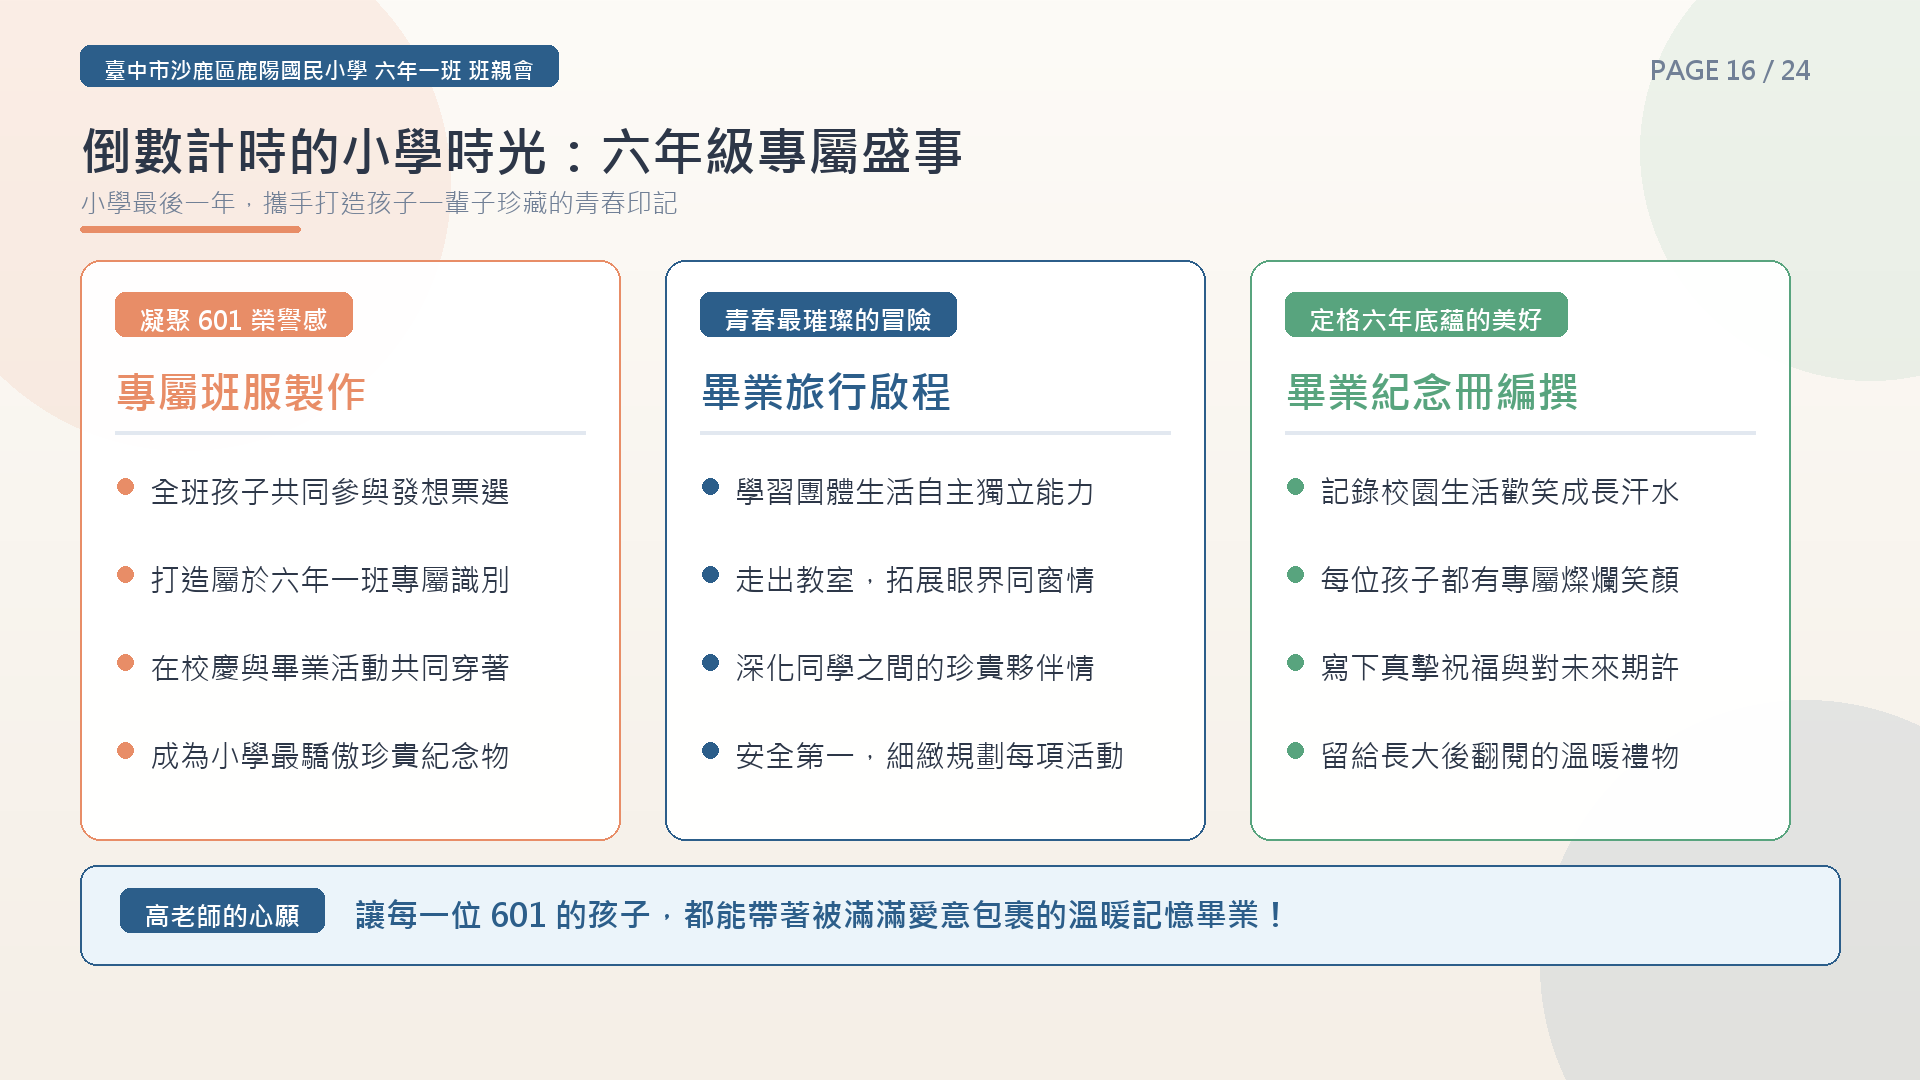
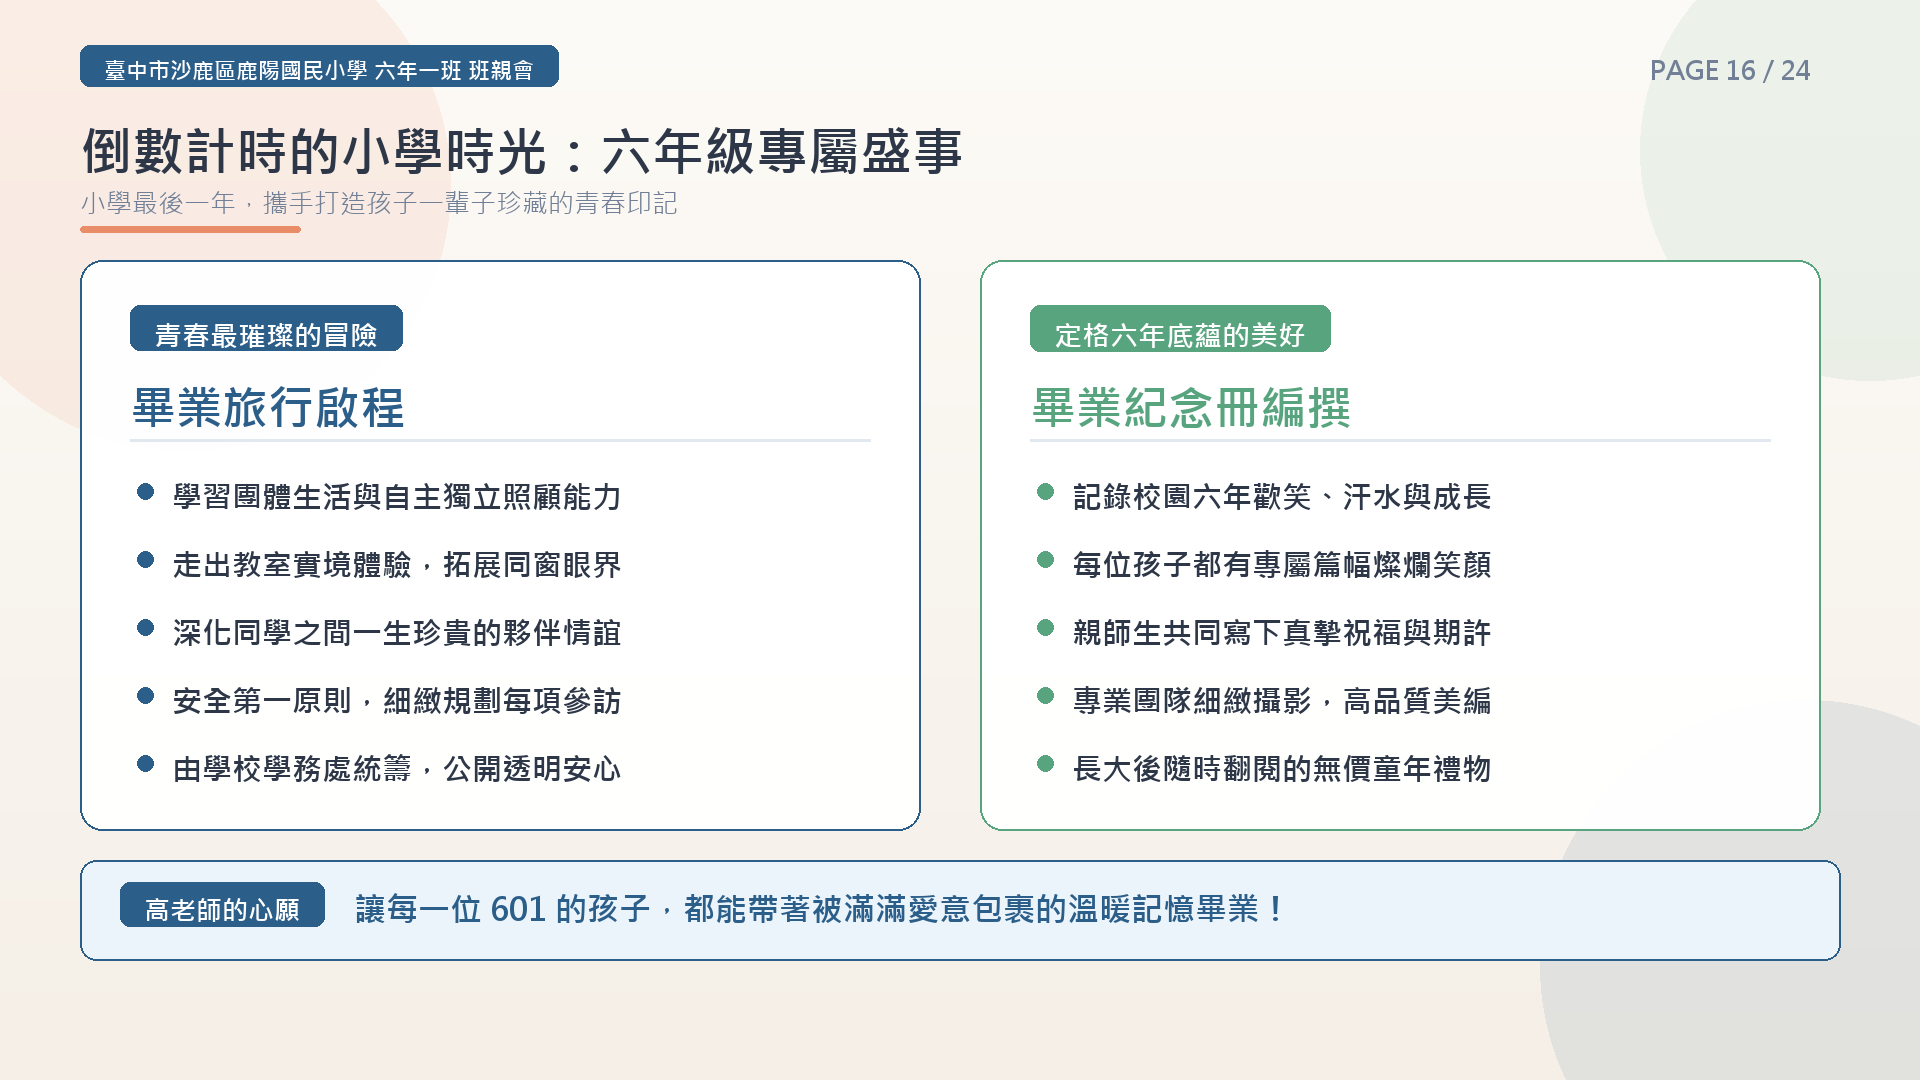
全面移除班服製作相關資訊，重新排版畢業旅行與畢業紀念冊專題

Changed region(s): [[0.0312, 0.2444, 0.9375, 0.7333], [0.0625, 0.6417, 0.9688, 0.9167], [0.3438, 0.6722, 0.4375, 0.7028]]

diff --git a/website/index.html b/website/index.html
@@ -285,21 +285,16 @@
       </div>
 
       <div class="card">
-        <h3 class="card-title">六年級三大成長盛事</h3>
-        <p style="margin-bottom: 1.2rem;">國小最後一年，我們將陪伴孩子共同完成三項凝聚一生回憶的重大專案：</p>
+        <h3 class="card-title">六年級重大成長盛事</h3>
+        <p style="margin-bottom: 1.2rem;">國小最後一年，我們將陪伴孩子共同完成凝聚一生美好回憶的重大專案：</p>
         <div class="grid-3">
           <div class="philosophy-card">
-            <span class="card-badge badge-orange">專案 01</span>
-            <h4 style="margin-bottom: 0.4rem;">專屬班服製作</h4>
-            <p style="font-size: 0.9rem; color: var(--text-muted);">孩子全員參與票選設計，凝聚 601 專屬榮譽感，於重大校園活動齊心展現。</p>
-          </div>
-          <div class="philosophy-card">
-            <span class="card-badge badge-blue">專案 02</span>
+            <span class="card-badge badge-blue">專案 01</span>
             <h4 style="margin-bottom: 0.4rem;">畢業旅行啟程</h4>
             <p style="font-size: 0.9rem; color: var(--text-muted);">最璀璨的小學探險之旅，培養團體互助與自主照顧，深化一輩子的同窗情誼。</p>
           </div>
           <div class="philosophy-card">
-            <span class="card-badge badge-green">專案 03</span>
+            <span class="card-badge badge-green">專案 02</span>
             <h4 style="margin-bottom: 0.4rem;">畢業紀念冊編撰</h4>
             <p style="font-size: 0.9rem; color: var(--text-muted);">定格孩子六年底蘊的燦爛笑容，為童年時光畫下最溫暖圓滿的句點。</p>
           </div>
@@ -308,7 +303,7 @@
 
       <div class="card">
         <h3 class="card-title">班親幹部推選與三大財務透明保證</h3>
-        <p>因應畢業旅行、班服與各項班級專款支出，我們推選熱心家長擔任<strong>班親會「會長」</strong>（代表發聲、親師溝通橋樑）與<strong>「總務」</strong>（專款保管、單據建檔、定期報表）。</p>
+        <p>因應畢業旅行與各項班級專案支出，我們推選熱心家長擔任<strong>班親會「會長」</strong>（代表發聲、親師溝通橋樑）與<strong>「總務」</strong>（專款保管、單據建檔、定期報表）。</p>
         
         <div class="highlight-box">
           <h5>⚖ 高老師與班親會的三大財務透明保證：</h5>

diff --git a/website/presentation.html b/website/presentation.html
@@ -424,8 +424,8 @@
       },
       {
         src: "assets/slides/16-graduation.png",
-        title: "Page 16｜六年級專屬盛事：班服、畢旅與畢業紀念冊",
-        notes: "<strong>【小學里程碑】</strong> 六年級專屬三大盛事：專屬班服設計凝聚 601 榮譽感、畢業旅行兩天一夜深度冒險拓展視野、畢業紀念冊編撰定格童年純真笑顏。"
+        title: "Page 16｜六年級專屬盛事：畢旅與畢業紀念冊",
+        notes: "<strong>【小學里程碑】</strong> 六年級專屬盛事：畢業旅行兩天一夜深度冒險拓展同窗視野、畢業紀念冊編撰定格童年純真笑顏。"
       },
       {
         src: "assets/slides/17-election.png",
@@ -435,7 +435,7 @@
       {
         src: "assets/slides/18-finance-pledge.png",
         title: "Page 18｜班級財務透明：高老師的三大透明承諾",
-        notes: "<strong>【導師承諾】</strong> 財務透明三大保證：① 專款專用（畢旅/班服專款獨立設帳）、② 帳目透明（定期公開收支明細表）、③ 雙人覆核（總務記帳、導師與會長共同覆核審驗）。"
+        notes: "<strong>【導師承諾】</strong> 財務透明三大保證：① 專款專用（畢旅與專案款項獨立設帳）、② 帳目透明（定期公開收支明細表）、③ 雙人覆核（總務記帳、導師與會長共同覆核審驗）。"
       },
       {
         src: "assets/slides/19-committee.png",

diff --git a/website/script.js b/website/script.js
@@ -79,8 +79,8 @@ document.addEventListener("DOMContentLoaded", () => {
     },
     {
       file: "assets/slides/16-graduation.png",
-      title: "Page 16｜六年級專屬盛事：班服、畢旅與畢業紀念冊",
-      note: "小學里程碑盛事：專屬班服凝聚班級向心力、兩天一夜畢業旅行鍛鍊獨立、畢業紀念冊典藏童年最美笑顏。"
+      title: "Page 16｜六年級專屬盛事：畢旅與畢業紀念冊",
+      note: "小學里程碑盛事：兩天一夜畢業旅行鍛鍊獨立自主、畢業紀念冊典藏童年最美笑顏。"
     },
     {
       file: "assets/slides/17-election.png",

diff --git a/generate_slides.py b/generate_slides.py
@@ -697,58 +697,62 @@ def gen_slide_16():
     draw = ImageDraw.Draw(base)
     draw_header_nav(draw, "16", "倒數計時的小學時光：六年級專屬盛事", "小學最後一年，攜手打造孩子一輩子珍藏的青春印記")
     
-    cards = [
-        ("專屬班服製作", ORANGE, "凝聚 601 榮譽感", [
-            "全班孩子共同參與發想票選",
-            "打造屬於六年一班專屬識別",
-            "在校慶與畢業活動共同穿著",
-            "成為小學最驕傲珍貴紀念物"
-        ]),
-        ("畢業旅行啟程", NAVY, "青春最璀璨的冒險", [
-            "學習團體生活自主獨立能力",
-            "走出教室，拓展眼界同窗情",
-            "深化同學之間的珍貴夥伴情",
-            "安全第一，細緻規劃每項活動"
-        ]),
-        ("畢業紀念冊編撰", GREEN, "定格六年底蘊的美好", [
-            "記錄校園生活歡笑成長汗水",
-            "每位孩子都有專屬燦爛笑顏",
-            "寫下真摯祝福與對未來期許",
-            "留給長大後翻閱的溫暖禮物"
-        ])
-    ]
-    
-    cw = 540
-    ch = 580
-    cx_start = 80
-    cy = 260
-    for i, (title, color, sub, bullets) in enumerate(cards):
-        x = cx_start + i * (cw + 45)
-        base = draw_card(base, [x, cy, x + cw, cy + ch], bg_color=(255, 255, 255, 248), border_color=color, radius=20)
-        d = ImageDraw.Draw(base)
-        draw_badge(d, sub, x + 35, cy + 32, bg_color=color, font_size=26)
-        d.text((x + 35, cy + 102), title, font=get_font(True, 42), fill=color)
-        d.line([(x + 35, cy + 172), (x + cw - 35, cy + 172)], fill=(226, 232, 240, 255), width=4)
-        
-        by = cy + 210
-        for b in bullets:
-            draw_dot(d, x + 45, by + 16, color=color, r=8)
-            d.text((x + 70, by), b, font=get_font(False, 30), fill=TEXT_DARK)
-            by += 88
-
-    base = draw_card(base, [80, 865, SLIDE_W - 80, 965], bg_color=(235, 244, 250, 255), border_color=(44, 94, 138, 255), radius=16)
+    # 2 Big Cards: 畢業旅行 & 畢業紀念冊
+    # Left Card: 畢業旅行啟程
+    base = draw_card(base, [80, 260, 920, 830], bg_color=(255, 255, 255, 248), border_color=(44, 94, 138, 255), radius=22)
     d = ImageDraw.Draw(base)
-    bw, bh = draw_badge(d, "高老師的心願", 120, 888, bg_color=NAVY, font_size=26)
-    d.text((120 + bw + 30, 892), "讓每一位 601 的孩子，都能帶著被滿滿愛意包裹的溫暖記憶畢業！", font=get_font(True, 32), fill=NAVY)
+    draw_badge(d, "青春最璀璨的冒險", 130, 305, bg_color=NAVY, font_size=28)
+    d.text((130, 375), "畢業旅行啟程", font=get_font(True, 46), fill=NAVY)
+    d.line([(130, 440), (870, 440)], fill=(226, 232, 240, 255), width=3)
+    
+    b_trip = [
+        "學習團體生活與自主獨立照顧能力",
+        "走出教室實境體驗，拓展同窗眼界",
+        "深化同學之間一生珍貴的夥伴情誼",
+        "安全第一原則，細緻規劃每項參訪",
+        "由學校學務處統籌，公開透明安心"
+    ]
+    by1 = 475
+    for b in b_trip:
+        draw_dot(d, 145, by1 + 16, color=NAVY, r=8)
+        d.text((172, by1), b, font=get_font(True, 30), fill=TEXT_DARK)
+        by1 += 68
+
+    # Right Card: 畢業紀念冊編撰
+    base = draw_card(base, [980, 260, 1820, 830], bg_color=(255, 255, 255, 248), border_color=(88, 164, 126, 255), radius=22)
+    d = ImageDraw.Draw(base)
+    draw_badge(d, "定格六年底蘊的美好", 1030, 305, bg_color=GREEN, font_size=28)
+    d.text((1030, 375), "畢業紀念冊編撰", font=get_font(True, 46), fill=GREEN)
+    d.line([(1030, 440), (1770, 440)], fill=(226, 232, 240, 255), width=3)
+    
+    b_album = [
+        "記錄校園六年歡笑、汗水與成長",
+        "每位孩子都有專屬篇幅燦爛笑顏",
+        "親師生共同寫下真摯祝福與期許",
+        "專業團隊細緻攝影，高品質美編",
+        "長大後隨時翻閱的無價童年禮物"
+    ]
+    by2 = 475
+    for b in b_album:
+        draw_dot(d, 1045, by2 + 16, color=GREEN, r=8)
+        d.text((1072, by2), b, font=get_font(True, 30), fill=TEXT_DARK)
+        by2 += 68
+
+    # Bottom Heartfelt Motto
+    base = draw_card(base, [80, 860, SLIDE_W - 80, 960], bg_color=(235, 244, 250, 255), border_color=(44, 94, 138, 255), radius=16)
+    d = ImageDraw.Draw(base)
+    bw, bh = draw_badge(d, "高老師的心願", 120, 882, bg_color=NAVY, font_size=26)
+    d.text((120 + bw + 30, 886), "讓每一位 601 的孩子，都能帶著被滿滿愛意包裹的溫暖記憶畢業！", font=get_font(True, 32), fill=NAVY)
 
     base.convert("RGB").save(os.path.join(OUT_DIR, "16-graduation.png"), quality=95)
     print("Slide 16 generated.")
+
 
 # ----------------- SLIDE 17: ELECTION (NEW SPLIT) -----------------
 def gen_slide_17():
     base = create_base_canvas()
     draw = ImageDraw.Draw(base)
-    draw_header_nav(draw, "17", "班級自治：推選 601 班親會「會長」與「總務」", "正因有畢業旅行、班服與紀念冊等重要活動，更需要家長幹部共同把關！")
+    draw_header_nav(draw, "17", "班級自治：推選 601 班親會「會長」與「總務」", "正因有畢業旅行與畢業紀念冊等重大專案，更需要家長幹部共同把關！")
     
     # 2 Big Cards: 會長 & 總務
     # Left: 會長
@@ -759,7 +763,7 @@ def gen_slide_17():
     
     c1 = [
         "代表六年一班全體家長發聲與協調",
-        "協助策劃支援班級重大活動（畢旅、活動）",
+        "協助策劃支援班級重大活動（畢旅、專案）",
         "擔任家長與學校行政、導師間最佳橋樑",
         "凝聚全班家長向心力，營造溫暖親師社群",
         "歡迎熱心、富使命感的家長自薦或推薦！"
@@ -778,7 +782,7 @@ def gen_slide_17():
     
     c2 = [
         "管理班級專屬經費帳戶，專款專用",
-        "負責畢業各項活動與班服款項之收取保管",
+        "負責畢業各項活動與專案款項之收取保管",
         "完整保留每一筆開銷單據與合法發票",
         "定期公開收支報表，財務透明全員安心",
         "歡迎細心、具財務經驗的家長熱情加入！"
@@ -1021,7 +1025,7 @@ def gen_slide_23():
     flow = [
         ("自由提問交流", "對孩子學習、作息與常規有任何想法均可提出。"),
         ("班親幹部推選", "現場推選班親會「會長」與「總務」，共同把關經費。"),
-        ("畢業專案討論", "班服樣式建議、畢旅期望與紀念冊製作交流。"),
+        ("畢業專案討論", "畢業旅行期望、活動規劃與紀念冊製作交流。"),
         ("填寫回饋表單", "歡迎家長掃描 QR Code 或填寫紙本，提供建言。")
     ]
     fy = 465
@@ -1090,7 +1094,7 @@ def gen_slide_24():
     c2_items = [
         "推選確認 601「班親會長」",
         "推選確認班級「總務幹部」",
-        "共同把關畢旅與班服經費",
+        "共同把關畢業專案與各項經費",
         "親師攜手做孩子最強後援"
     ]
     y = 485

diff --git a/content-plan.md b/content-plan.md
@@ -1,4 +1,4 @@
-# 班親會內容母稿｜Content Plan & Strategy
+# 班親會內容母稿｜Content Plan & Strategy
 學校與班級：臺中市沙鹿區鹿陽國民小學 六年一班  
 班級導師：高志賢 老師  
 簡報長度：約 30 分鐘（共 20 頁大字體無負擔結構）  
@@ -46,7 +46,7 @@
 | **11** | **校園健康守護** | 環境通風與生病不上課 | **校園健康：環境通風與發燒休養**<br>保持開窗通風・發燒（≥37.5℃）生病不上課 | 宣導生病在家休養，退燒滿 24 小時再返校，守護全班同儕健康。 |
 | **12** | **請假規範指南** | 8:30 前通報管道與流程 | **出缺席差勤指南：8:30 前通報**<br>LINE 或學校總機 04-26567968・審核權責 | 清楚交代差勤通報規範與流程，確保每日學童出缺席零死角。 |
 | **13** | **校園安全管理** | 外出嚴格審核與中輟通報 | **校園安全防護：外出管制與中輟通報**<br>警衛室登記換證領回・未請假達 3 日中輟通報 | 杜絕學童自行離校，親師攜手滴水不漏維護安全。 |
-| **14** | **六年級專屬盛事** | 珍藏童年三大里程碑 | **六年級三大盛事：班服 × 畢旅 × 紀念冊**<br>凝聚榮譽感・成長冒險・定格最美回憶 | 小學最後一年，透過活動深化同儕情誼與自主企劃能力。 |
+| **14** | **六年級專屬盛事** | 珍藏童年里程碑 | **六年級重大盛事：畢旅 × 紀念冊**<br>成長冒險・定格最美回憶 | 小學最後一年，透過活動深化同儕情誼與自主企劃能力。 |
 | **15** | **班級自治推選** | 推選會長與總務幹部 | **班級自治：推選班親會長與總務**<br>搭起溝通橋樑・共同監督與保管專案經費 | 邀請熱心家長擔任幹部，協助活動推展與財務保管。 |
 | **16** | **班級財務透明** | 高老師的三大透明承諾 | **財務透明：高老師的三大承諾**<br>專款專用・帳目公開透明・雙人覆核審查 | 承諾專款專用與收支透明，家長完全安心放心。 |
 | **17** | **家長委員致謝** | 感謝最堅實的後盾 | **誠摯致謝：114學年度家長委員會委員**<br>感謝無私承擔・搭起學校與班級橋樑 | 公開致謝本班已確認產生的家長委員，感謝全力奧援。 |
@@ -65,6 +65,6 @@
   3. **導師陪伴理念**：先相信再理解、3C 學習助力思維、高年級心理引導。
   4. **SEL 情緒學習與愛閱專區**：SEL 核心力與 115 愛閱家庭雲端申請連結（包含 QR Code 與日程）。
   5. **校園健康與請假須知**：請假電話、8:30 前通報、審核權責與臨時外出安全管制。
-  6. **六年級專案時光機**：畢業旅行、畢冊、班服規劃進度。
+  6. **六年級專案時光機**：畢業旅行、畢冊規劃進度。
   7. **班親會組織與財務監督**：會長與總務角色說明、三大財務承諾、家長委員致謝名單。
   8. **親師聯絡簿**：LINE 聯繫須知、緊急電話 `0963-159-896` 點擊直撥、Q&A 常見問題集。

diff --git a/speaker-notes.md b/speaker-notes.md
@@ -228,16 +228,15 @@
 
 ---
 
-### Slide 16｜六年級專屬盛事：班服、畢旅與畢業紀念冊
+### Slide 16｜六年級專屬盛事：畢業旅行與畢業紀念冊
 * **畫面文字**：
   * 倒數計時的小學時光：六年級專屬盛事
-  * 專屬班服設計：凝聚 601 榮譽感與團隊認同
   * 畢業旅行啟程：兩天一夜的自主獨立與深刻回憶
   * 畢業紀念冊編撰：定格六年最璀璨童年笑顏
 * **老師可以說**：
-  「六年級是小學的最後一年，除了日常課業，最值得孩子一輩子回味的，就是這三件大盛事：屬於我們 601 的『專屬班服』、令人引頸期盼的『畢業旅行』，以及記錄六年底蘊的『畢業紀念冊』。
+  「六年級是小學的最後一年，除了日常課業，最值得孩子一輩子回味的，就是這兩件重大盛事：令人引頸期盼的『畢業旅行』，以及記錄六年底蘊的『畢業紀念冊』。
   
-  這些活動不僅是儀式，更是凝聚班級向心力、培養孩子團隊自主企劃的重要歷程。我們會讓孩子們充分參與班服的設計發想與回憶紀錄，讓每位孩子都在國小階段畫下最燦爛無憾的句點。」
+  這些活動不僅是儀式，更是凝聚班級向心力、培養孩子團隊自主照顧的重要歷程。我們會讓孩子們充分參與討論與回憶紀錄，讓每位孩子都在國小階段畫下最燦爛無憾的句點。」
 * **建議時間**：約 2 分鐘
 
 ---
@@ -249,7 +248,7 @@
   * 總務幹部：保管專案經費・記錄帳目收支
   * 攜手合作，成為六年一班最強後援會！
 * **老師可以說**：
-  「正因為六年級有班服、畢旅、各項專案活動，這些都會牽涉到經費的籌措與支出。
+  「正因為六年級有畢業旅行、畢業專案等重要活動，這些都會牽涉到經費的籌措與支出。
   
   為了讓班級自治與運作更加順暢，今天需要推選兩位熱心熱忱的家長幹部：一位是『班親會長』，協助溝通各項活動、代表家長向學校與導師反映建言；另一位是『總務幹部』，協助保管班級專案基金、記錄每一筆收支。熱烈歡迎現場有意願的家長自告奮勇，為全班孩子服務！」
 * **建議時間**：約 2.5 分鐘（包含現場推選互動）
@@ -265,7 +264,7 @@
 * **老師可以說**：
   「在這裡，高老師要向全體家長做出『三大財務透明承諾』：
   
-  第一，專款專用：畢業旅行、班服或各項班級基金，每一筆錢都獨立設帳，絕不挪作他用；
+  第一，專款專用：畢業旅行或各項班級專案基金，每一筆錢都獨立設帳，絕不挪作他用；
   第二，帳目透明：每一筆開銷都保留正式發票收據，定期在班級群組公開明細；
   第三，雙人覆核：總務家長記帳、導師與會長共同簽核。
   

diff --git a/README.md b/README.md
@@ -27,7 +27,7 @@ c:\Antigravity\班親會\
 │   ├── 13-health-safety.png       # 13 校園健康守護：環境通風與發燒休養
 │   ├── 14-attendance-rules.png    # 14 請假規範指南：8:30 前通報管道與流程
 │   ├── 15-attendance-security.png # 15 校園安全管理：外出嚴格審核與中輟通報
-│   ├── 16-graduation.png          # 16 六年級專屬盛事：班服、畢旅與紀念冊
+│   ├── 16-graduation.png          # 16 六年級專屬盛事：畢旅與紀念冊
 │   ├── 17-election.png            # 17 班級自治與推選：班親會長與總務幹部
 │   ├── 18-finance-pledge.png      # 18 班級財務透明：高老師的三大透明承諾
 │   ├── 19-committee.png           # 19 誠摯致謝：114學年度本班家長委員會委員

diff --git a/visual-bible.md b/visual-bible.md
@@ -34,7 +34,7 @@ characters:
     appearance: "親切沉穩、戴眼鏡、面帶溫暖微笑、穿著整潔休閒襯衫或針織背心"
     vibe: "值得信任、善於傾聽與引導的良師益友"
   students:
-    appearance: "六年級男女學生，身著整齊便服或活潑班服，身型修長自然，散發小六生微成熟的專注與純真氣質"
+    appearance: "六年級男女學生，身著整齊學生便服，身型修長自然，散發小六生微成熟的專注與純真氣質"
     diversity: "多元自然，著重互動神情，不刻意對應真實單一個別學生"
 
 layout:
